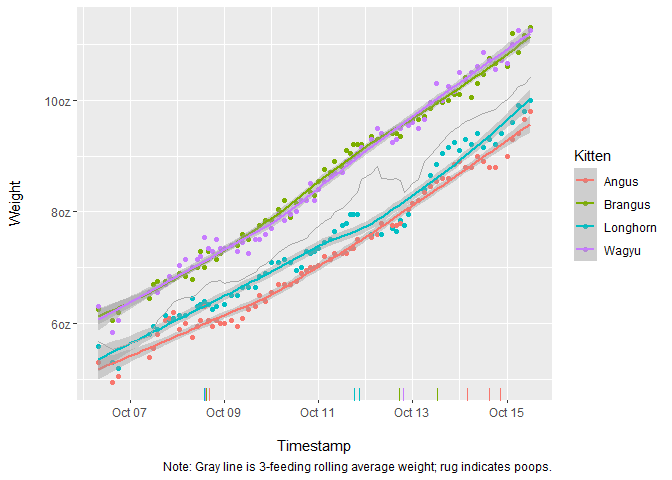
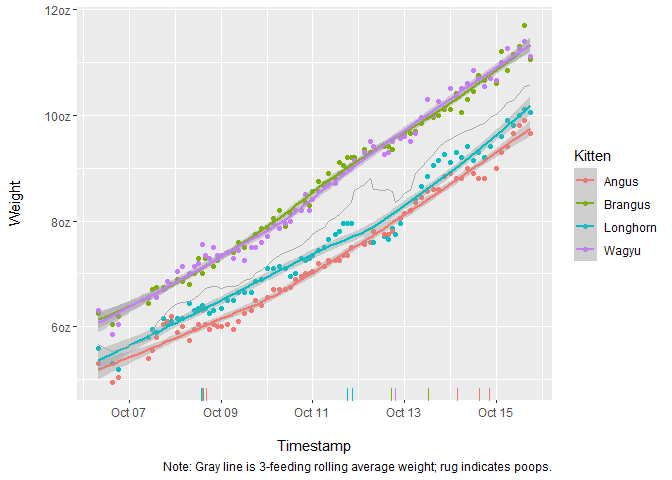
Feeding update

diff --git a/readme.md b/readme.md
@@ -44,7 +44,7 @@ Current Avg. Weight
 
 <td style="text-align:left;">
 
-10.59oz
+10.78oz
 
 </td>
 
@@ -92,7 +92,7 @@ Avg. Gain per Day per Kitty
 
 <td style="text-align:left;">
 
-0.51oz
+\-Inflb NaNoz
 
 </td>
 
@@ -124,7 +124,7 @@ Expected Avg. Weight at 3 Years of Age
 
 <td style="text-align:left;">
 
-36lb 9oz
+36lb 13oz
 
 </td>
 
